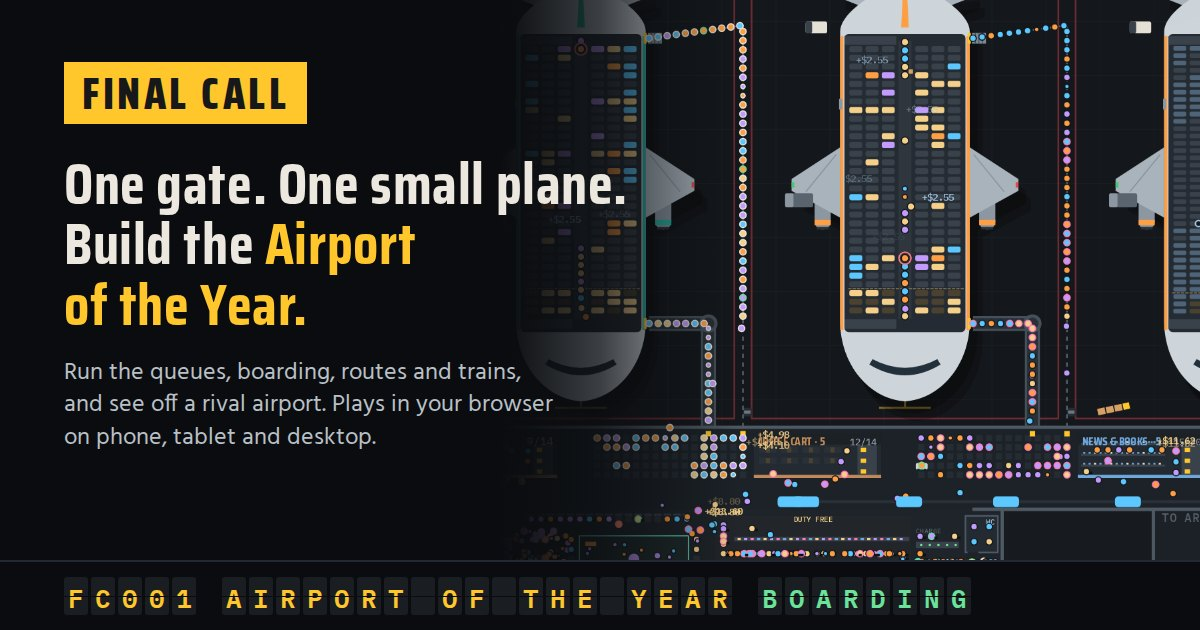
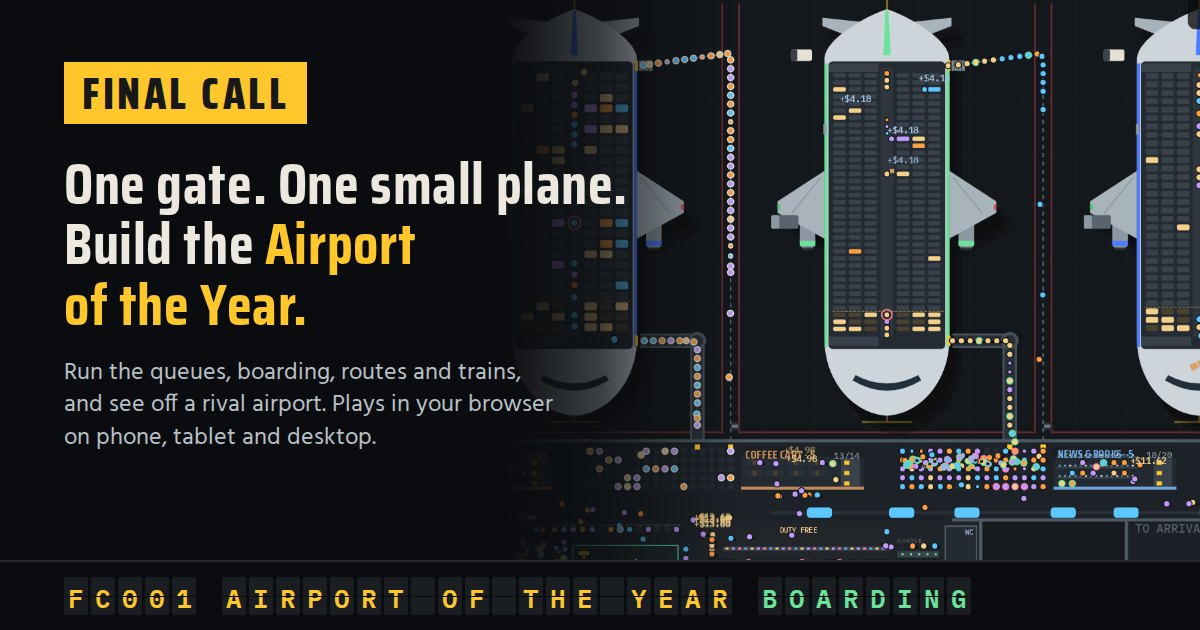
Release 36: the roof terrace and the Roadmap tab (#182)
* Release 36: the roof terrace and the Roadmap tab

Fold the terrace and Roadmap tab fragments into What's new and the version
history, move the roadmap, add the version 36 save fixtures and refresh the
link preview. The migrate check stops treating a save's own version stamp as
an unset field, which every release after the stamp was added would trip.

* Add the release 36 look back

Changed region(s): [[0.4317, 0.0, 1.0, 0.9048]]

diff --git a/src/game/38-updates.js b/src/game/38-updates.js
@@ -3,6 +3,9 @@
 // A point is {b, t, go, lv}: a bold lead of a few words, one short sentence, and optionally a place "Show me" goes to
 // (newsOk lists them) and the level it needs (the card hides it below that). A plain string still shows as it is.
 const UPDATES=[
+  {v:36,title:'A roof terrace and a Roadmap',points:[
+    {b:'A roof terrace',t:'Waiting passengers watch the planes from the roof, with spotters beside them.',go:'terminal:staff',lv:3},
+    {b:'A Roadmap tab',t:'See what’s coming on a departures board, with filters and details on tap.'}]},
   {v:35,title:'Two floors and a clearer climb',points:[
     {b:'Two floors',t:'Departures upstairs, arrivals below, joined by escalators and a lift.'},
     {b:'A climb that leads',t:'Your first level comes in minutes, and the goal bar shows what holds you back.',go:'office:progress'},

diff --git a/docs/HISTORY.md b/docs/HISTORY.md
@@ -4,6 +4,7 @@ Newest first. The version numbers match the published claude.ai artifact.
 
 | Version | What changed |
 | --- | --- |
+| 36 | **A roof terrace and a Roadmap.** A roof terrace over the concourse, a Terminal upgrade from level 3: waiting passengers go up the stairs to watch the planes and get a coffee, spotters gather on the public side, famous faces go up too, and it closes to passengers in the wet and at night. It shows on the Roof stop. What's new also gets a Roadmap tab: a departures board of what's next, scheduled and on the radar, and what has recently landed, with filter chips and details on tap. |
 | 35 | **Two floors and a clearer climb.** Classic's terminal now stands on two floors, departures upstairs and arrivals below, with escalators and a lift between them; tapping a hall's name, a tip or a board line goes to its floor. Your first level comes within minutes (about 80 passengers), the goal bar follows whichever requirement is holding you back, curfews scale the next level's daily target, and later levels are smoother (Regional Airport sooner, the top levels in reach, closing a gate on a late passenger costs more). Routes need flying to keep their travellers, partners fill the gaps and a Keep setting guarantees a route's flights. Advisor tips point the right way, overnight checks also service worn planes at the gate, and buying from a tip shows you the hall. Late shoppers run for their gate, and tapping a passenger tells their story. Records and stamps appear as a toast with their own chime. The terminal's labels read on phones and tablets, and small screens, the guided start, Help and What's new were tidied, with Show me buttons on each point. Saves can no longer be lost or frozen: a second tab or older page never saves over a newer airport, a full storage says so, an error pauses the game, and the welcome-back bonus no longer snowballs. Fixed overlapping stand cards, a jumpy people mover and passengers cutting through walls; money and bag counts read cleanly. Anonymous, cookie-free usage counts can be turned off in Settings. |
 | 34 | **Famous faces and a real-looking region.** From level 3, an invented footballer, pop star, film actor or royal flies through your airport now and then: the board and the region news name them a day ahead, photographers wait at the check-in doors, fans line the security barrier, the café they stop at has a busy hour, and getting their flight away on time gives a small lift to your rating. The region map is redrawn to look like a real map: gentle relief, hedged fields and woods round the towns, a softer coast with shallows, towns that spread as they grow, lines that read like a transit map, and an airport with its own runways, taxiways, apron and terminal; by night the towns glow warm and the runway lights come on, and labels no longer overlap. A Fleet tab beside Gates gathers your planes, crews, servicing and selling in one place once you're ready to buy a second plane. |
 | 33 | **A rating that keeps you on your toes.** Your rating now follows the last day of flights instead of adding up for ever: delays, long queues and night noise pull it down within hours, and a good run lifts it back, with an arrow beside the rating for which way it's heading and its biggest cause when you tap it. Office › Money can play back yesterday over your airport in about a minute, planes coming and going at their stands as the halls glow where it was busy. Photo mode hides every panel so you can frame a picture of your airport or the Region, picking the time of day and the weather; the shutter saves it or opens the share sheet on a phone. Settings now split into four sections with managers first, weekly challenges sit under your goals, staff pay is on Terminal › Staff too, and boarding upgrades have their own heading. On phones, the top bar's buttons are back on one row, with one speed button that cycles through 1×, 2×, 4× and 8×. |

diff --git a/docs/ROADMAP.md b/docs/ROADMAP.md
@@ -5,8 +5,7 @@ What's being worked on, what's next, and ideas not yet agreed. Now, Next, the ru
 ## Now
 
 <!-- joined:now from docs/roadmap.d/ (Section: now) by tools/join.mjs: don't edit between these lines -->
-- **The terminal as a place, multiple floors** (#48, #133; spec `docs/specs/terminal-place.md`, refreshed and re-approved 28 Sep 2026): departures upstairs and arrivals below, a roof terrace passengers go up to (with spotters, famous faces and photos), windows, decor that comes with the building, local character, and each layout's own floor plan. Two floors in Classic shipped in version 35 (#162); the rest of #133 is still to do, the roof terrace first, then the other layouts' floors.
-- **A Roadmap tab on What's new** (#137): a second tab on the What's new page showing what's coming as a departures board, with details on tap and filter chips; spec `docs/specs/roadmap-tab.md`, notes `docs/systems/whats-new.md`. Built on `feature/roadmap-tab`; the board's list is `src/roadmap.d/`.
+- **The terminal as a place, multiple floors** (#48, #133; spec `docs/specs/terminal-place.md`, refreshed and re-approved 28 Sep 2026): departures upstairs and arrivals below, a roof terrace passengers go up to (with spotters, famous faces and photos), windows, decor that comes with the building, local character, and each layout's own floor plan. Two floors in Classic shipped in version 35 (#162) and the roof terrace in version 36 (#181); windows, decor and the other layouts’ floors are still to do.
 <!-- /joined:now -->
 
 ## The owner's order of bundles
@@ -120,7 +119,9 @@ How sessions work, not the game. Each one is small, measured and recorded in the
 ## Done
 
 <!-- joined:done from docs/roadmap.d/ (Section: done) by tools/join.mjs: don't edit between these lines -->
+- **Version 36: the roof terrace and the Roadmap tab.** The roof terrace (#181, #133 step 4) and the Roadmap tab on What's new (#180, #137), folded into one What's new entry. The next item for players, windows on the apron, moves to Next update.
 - **Version 35: the public release.** Two floors in Classic (#162), the release audit's batches (saves, pacing, tips, goals and the polish rounds), the loose ends and the docs and README, folded into one What's new entry: the first game the wider public sees.
+- **A Roadmap tab on What's new** (#137): a second tab on the What's new page showing what's coming as a departures board, with details on tap and filter chips; spec `docs/specs/roadmap-tab.md`, notes `docs/systems/whats-new.md`. Built on `feature/roadmap-tab`; the board's list is `src/roadmap.d/`.
 - **Version 34: famous faces and a real-looking region.** Invented celebrities flying through from level 3 with photographers, fans and a busy café hour; the region map redrawn with real-looking land, towns and an airport; a Fleet tab beside Gates for planes, crews and servicing, brought together with one What's new entry.
 - **Version 33: a rating that keeps you on your toes.** A rating that follows the last day of flights instead of adding up for ever, Day in a minute (a time-lapse of yesterday over the airport), Photo mode, and settings, weekly challenges, staff pay and boarding upgrades moved to where players look, brought together with one What's new entry.
 - **A page size budget check** (`docs/decisions/ADR-2026-09-28-page-size-budget.md`): `dist/index.html` stays under 861 KB (today's 749 KB plus about 15% headroom); the `page-size` check group prints the size, the budget and a CSS/script/inline-data breakdown on failure.

diff --git a/docs/briefs/release-36.md b/docs/briefs/release-36.md
@@ -1,0 +1,41 @@
+# Brief: Release version 36, the roof terrace and the Roadmap tab
+
+Cut release 36 with the `release` playbook, in one PR on `feature/release-36`. The roof terrace (#181, #133 step 4) and the Roadmap tab on What's new (#180, #137) have merged. The owner parked the public launch on 29 Sep, so the launch week's one-release-a-day rule doesn't hold.
+
+## Goal and what it may touch
+
+- Claim the version first, then fold every fragment in `src/updates.d/`: at most four points, the terrace first, with its "Show me" and level 3; a title that names what's new in the game; a `docs/HISTORY.md` row in concise UK English, leaving out code-only changes.
+- Roadmap: the terrace goes from `next` to `landed` with code `V36`, windows on the apron moves to `next`, the shipped items' own files move to `Section: done`, and `docs/roadmap.d/<date>-release-36.md` is added.
+- Save fixtures: `G.terrace` and `G.lv.terrace` are new. Run the bot, copy L1, L3, L5 and L9 to `tools/saves/v36-L<n>.json` with `savedAt` backdated past three hours, and add the new `GOLD` lines only.
+- Link preview: run `npm run preview` and commit `src/public/` if it changed.
+- Final check: a full `npm run check` after merging `main`; once merged, confirm the Pages publish.
+- Files it may touch: `src/game/38-updates.js`, `src/updates.d/`, `src/roadmap.d/`, `docs/HISTORY.md`, `tools/saves/`, `tools/checks/migrate.mjs` (new `GOLD` lines only), `src/public/`, `docs/roadmap.d/`, a look back in `docs/lessons/`, and this brief.
+
+## Read first
+
+- The project notes, the `release` and `steward` playbooks.
+- `node tools/graph.mjs updates` and `node tools/graph.mjs FIELDS`.
+
+## Speed budget
+
+None: no drawing or simulation code.
+
+## Commit author
+
+KyleLookingAround <KyleMck10@hotmail.com> (the session-start hook sets it).
+
+## Who merges and when
+
+The session writes the look back into the PR, marks it ready and turns on auto-merge (squash) once Checks and Description are green, then books one `send_later` to confirm the merge and the Pages publish.
+
+## What's left for others
+
+Windows and watchers, decor, each layout's floor plan (#133 steps 3, 5 and 6), then refactors 8 and 10. The coordinator updates the players' roadmap page.
+
+## When to stop and ask
+
+Only for something irreversible or outside this brief. Otherwise open an issue labelled `needs-owner` with the question and the default it will take, carry on, and take the default after 12 hours with no answer, saying so in the PR. Where it's merely unclear, take the safer option and say so in the PR.
+
+## Cost budget
+
+Estimate: about $5. Past twice that, say why in the PR and its lesson.

diff --git a/docs/lessons/182-release-36.md b/docs/lessons/182-release-36.md
@@ -1,0 +1,11 @@
+Theme: release
+
+# Release 36: the roof terrace and the Roadmap tab · 29 Sep 2026
+
+- **Numbers:** one default-model session, started about 20:30 UTC; cost is read from the session record at the stopping points (about $5 estimated). One PR (#182), one push before Checks, no merges from `main` needed at the time of writing.
+- **Went well:**
+  - **The fragments and the players' roadmap were small and clear**, so the fold took minutes.
+  - **Backdating `savedAt` five hours** kept the fixtures out of the welcome-back window.
+- **Lessons:**
+  - **A new version made the older fixtures fail `migrate`.** The check compared each `ADDED` field with its default, and `ver` defaults to the newest What's new version, so every fixture stamped with an older `ver` read as "not at its default" the moment version 36 existed. The check now skips `ver` for a save that carries its own stamp. → `tools/checks/migrate.mjs`
+  - **The release playbook says the check prints the new hashes, but the first run prints "changed" for the old saves instead,** which hides the new files' hashes until that is fixed. A release that bumps the version should expect that failure first.

diff --git a/docs/roadmap.d/2026-09-27-02-terminal-place.md b/docs/roadmap.d/2026-09-27-02-terminal-place.md
@@ -1,2 +1,2 @@
 Section: now
-- **The terminal as a place, multiple floors** (#48, #133; spec `docs/specs/terminal-place.md`, refreshed and re-approved 28 Sep 2026): departures upstairs and arrivals below, a roof terrace passengers go up to (with spotters, famous faces and photos), windows, decor that comes with the building, local character, and each layout's own floor plan. Two floors in Classic shipped in version 35 (#162); the rest of #133 is still to do, the roof terrace first, then the other layouts' floors.
+- **The terminal as a place, multiple floors** (#48, #133; spec `docs/specs/terminal-place.md`, refreshed and re-approved 28 Sep 2026): departures upstairs and arrivals below, a roof terrace passengers go up to (with spotters, famous faces and photos), windows, decor that comes with the building, local character, and each layout's own floor plan. Two floors in Classic shipped in version 35 (#162) and the roof terrace in version 36 (#181); windows, decor and the other layouts’ floors are still to do.

diff --git a/docs/roadmap.d/2026-09-28-roadmap-tab.md b/docs/roadmap.d/2026-09-28-roadmap-tab.md
@@ -1,2 +1,2 @@
-Section: now
+Section: done
 - **A Roadmap tab on What's new** (#137): a second tab on the What's new page showing what's coming as a departures board, with details on tap and filter chips; spec `docs/specs/roadmap-tab.md`, notes `docs/systems/whats-new.md`. Built on `feature/roadmap-tab`; the board's list is `src/roadmap.d/`.

diff --git a/docs/roadmap.d/2026-09-29-release-36.md b/docs/roadmap.d/2026-09-29-release-36.md
@@ -1,0 +1,2 @@
+Section: done
+- **Version 36: the roof terrace and the Roadmap tab.** The roof terrace (#181, #133 step 4) and the Roadmap tab on What's new (#180, #137), folded into one What's new entry. The next item for players, windows on the apron, moves to Next update.

diff --git a/src/roadmap.d/49-roof-terrace.md b/src/roadmap.d/49-roof-terrace.md
@@ -1,6 +1,6 @@
 # A roof terrace
-Status: next
-Code: SOON
+Status: landed
+Code: V36
 Summary: Watch the planes from a terrace above the halls.
 
 - A terrace at the apron edge that passengers go up to while they wait, to watch the planes and take photos.

diff --git a/src/roadmap.d/20-windows.md b/src/roadmap.d/20-windows.md
@@ -1,6 +1,6 @@
 # Windows on the apron
-Status: scheduled
-Code: TBA
+Status: next
+Code: SOON
 Summary: Glass along the apron, lit at night.
 
 - Glass along the walls that face the apron, with a sheen by day and warm light at night.
